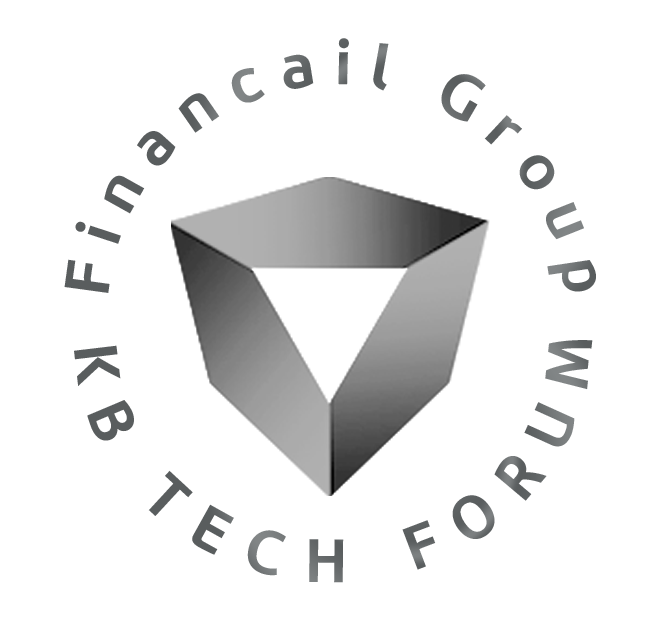
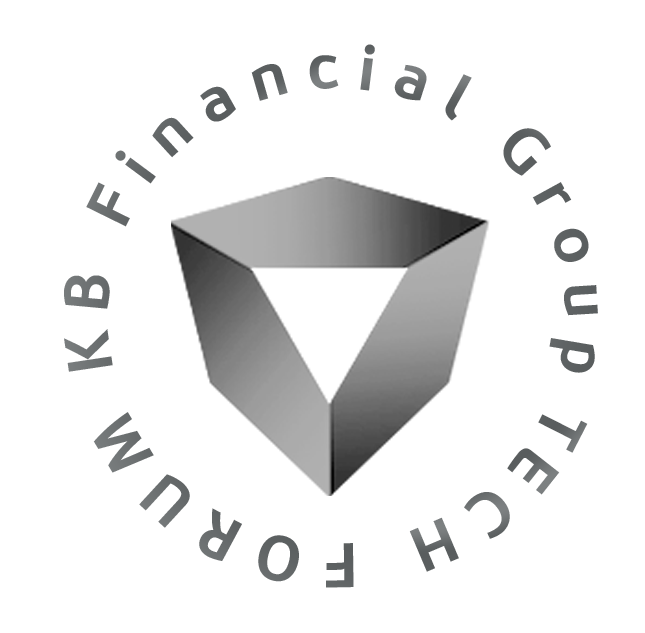
ver2 -

diff --git a/public/index.html b/public/index.html
@@ -15,8 +15,7 @@
         <nav class="navbar navbar-expand-lg navbar-dark">
             <div class="container">
                 <a class="navbar-brand" href="/">
-                    <img src="/asset/tech-forum-stamp-off.png" alt="KB Tech Forum" class="brand-logo">
-                    KB Tech Forum
+                    <img src="/asset/tech-forum-logo.png" alt="KB Tech Forum" class="brand-logo">
                 </a>
                 
                 <!-- 네비게이션 메뉴 -->
@@ -345,12 +344,8 @@
                     <div class="col-md-6">
                         <div class="archive-card">
                             <a href="https://lxp.kbstar.com/app/prep/hrdcloud?category1=1&category2=16&category3=124&sortTyCdDcd=2073001&pageNo=1" target="_blank" rel="noopener noreferrer" class="archive-link">
-                                <div class="archive-thumbnail">
-                                    <div class="archive-placeholder">
-                                        <svg width="80" height="80" viewBox="0 0 24 24" fill="var(--kb-primary)">
-                                            <path d="M12 2L2 7l10 5 10-5-10-5zM2 17l10 5 10-5M2 12l10 5 10-5"/>
-                                        </svg>
-                                    </div>
+                                <div class="archive-thumbnail archive-thumbnail-lxp" style="background: #f8f4f1;">
+                                    <img src="/asset/lxp-logo.png" alt="스타런 전체섹션 다시보기" class="img-fluid" style="object-fit: contain; padding: 1.5rem 2rem; position: absolute; top: 50%; left: 50%; transform: translate(-50%, -50%); width: auto; height: auto; max-width: 90%; max-height: 90%;">
                                 </div>
                                 <div class="archive-info">
                                     <h4>스타런 전체섹션 다시보기</h4>

diff --git a/public/app/admin/index.html b/public/app/admin/index.html
@@ -9,6 +9,23 @@
     <link rel="stylesheet" href="/css/fonts.css">
     <link rel="icon" type="image/png" href="/asset/tech-forum-stamp-off.png">
     <style>
+        /* 관리자 페이지 헤더 차별화 - KB Yellow Positive 톤 */
+        .header-admin {
+            background: linear-gradient(135deg, var(--kb-primary) 0%, var(--kb-yellow-negative) 100%) !important;
+            border-bottom: 3px solid var(--kb-primary);
+        }
+        
+        .header-admin .admin-title {
+            color: var(--kb-gray);
+            font-weight: 700;
+            font-size: 1.2rem;
+            margin-left: 0.75rem;
+            padding: 0.25rem 0.75rem;
+            background: rgba(255, 255, 255, 0.8);
+            border-radius: 4px;
+            border: 1px solid rgba(96, 88, 76, 0.3);
+        }
+        
         .admin-container {
             max-width: 1200px;
             margin: 0 auto;
@@ -337,12 +354,12 @@
     </style>
 </head>
 <body>
-    <header class="header">
+    <header class="header header-admin">
         <nav class="navbar navbar-expand-lg navbar-dark">
             <div class="container">
                 <a class="navbar-brand" href="/">
-                    <img src="/asset/tech-forum-stamp-off.png" alt="KB Tech Forum" class="brand-logo">
-                    KB Tech Forum 관리자
+                    <img src="/asset/tech-forum-logo.png" alt="KB Tech Forum" class="brand-logo">
+                    <span class="admin-title">관리자</span>
                 </a>
                 <button class="btn btn-sm btn-outline-light" onclick="logout()">로그아웃</button>
             </div>

diff --git a/public/css/style.css b/public/css/style.css
@@ -47,7 +47,7 @@ body {
 }
 
 .brand-logo {
-    height: 2rem;
+    height: 3rem;
     width: auto;
     object-fit: contain;
 }
@@ -125,7 +125,7 @@ body {
     
     /* 모바일에서 브랜드 로고 크기 조정 */
     .brand-logo {
-        height: 1.5rem;
+        height: 2.2rem !important;
     }
     
     .navbar-brand {
@@ -135,7 +135,10 @@ body {
 
 /* Hero Section - KB CI 그라데이션 적용 */
 .hero-section {
-    background: linear-gradient(180deg, var(--kb-purple) 0%, var(--kb-magenta) 100%);
+    background-image: url('/asset/tech-forum-bg.jpeg');
+    background-size: cover;
+    background-position: center;
+    background-repeat: no-repeat;
     color: white;
     padding: 4rem 1rem;
     text-align: center;
@@ -154,8 +157,7 @@ body {
     left: 0;
     right: 0;
     bottom: 0;
-    background: linear-gradient(180deg, var(--kb-purple) 0%, var(--kb-magenta) 100%);
-    opacity: 0.95;
+    background: rgba(0, 0, 0, 0.2);
     z-index: 1;
 }
 
@@ -540,6 +542,19 @@ section {
     object-fit: cover;
 }
 
+/* 스타런 썸네일 특별 스타일 - 기본 스타일만 유지, 배경은 인라인 스타일로 처리 */
+.archive-thumbnail-lxp {
+    position: relative;
+}
+
+.archive-thumbnail-lxp img {
+    position: absolute;
+    top: 0;
+    left: 0;
+    width: 100%;
+    height: 100%;
+}
+
 .archive-placeholder {
     position: absolute;
     top: 0;
@@ -651,6 +666,11 @@ section {
 
     .navbar-brand {
         font-size: 1.2rem;
+    }
+    
+    /* 모바일용 배경 이미지 */
+    .hero-section {
+        background-image: url('/asset/tech-forum-bg-mob.jpeg');
     }
 }
 

diff --git a/public/app/event/index.html b/public/app/event/index.html
@@ -148,8 +148,7 @@
         <nav class="navbar navbar-expand-lg navbar-dark">
             <div class="container">
                 <a class="navbar-brand" href="/">
-                    <img src="/asset/tech-forum-stamp-off.png" alt="KB Tech Forum" class="brand-logo">
-                    KB Tech Forum
+                    <img src="/asset/tech-forum-logo.png" alt="KB Tech Forum" class="brand-logo">
                 </a>
                 
                 <!-- 네비게이션 메뉴 -->

diff --git a/public/app/survey/index.html b/public/app/survey/index.html
@@ -68,8 +68,7 @@
         <nav class="navbar navbar-expand-lg navbar-dark">
             <div class="container">
                 <a class="navbar-brand" href="/">
-                    <img src="/asset/tech-forum-stamp-off.png" alt="KB Tech Forum" class="brand-logo">
-                    KB Tech Forum
+                    <img src="/asset/tech-forum-logo.png" alt="KB Tech Forum" class="brand-logo">
                 </a>
             </div>
         </nav>
